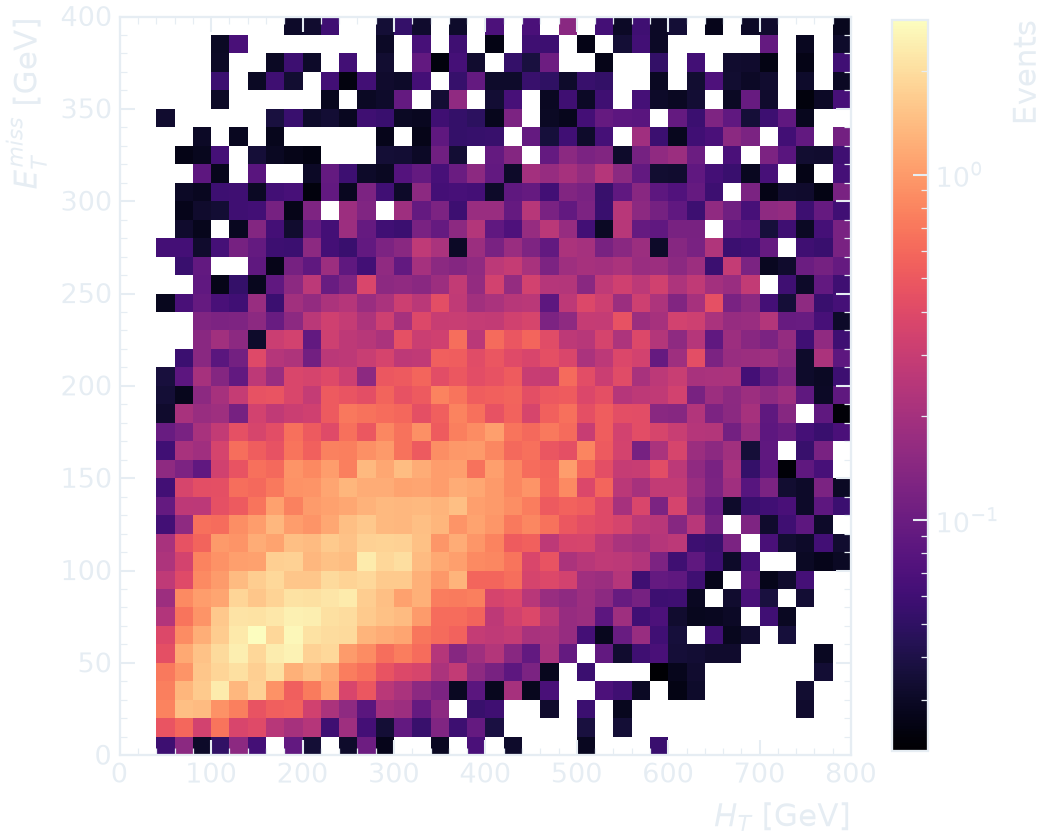
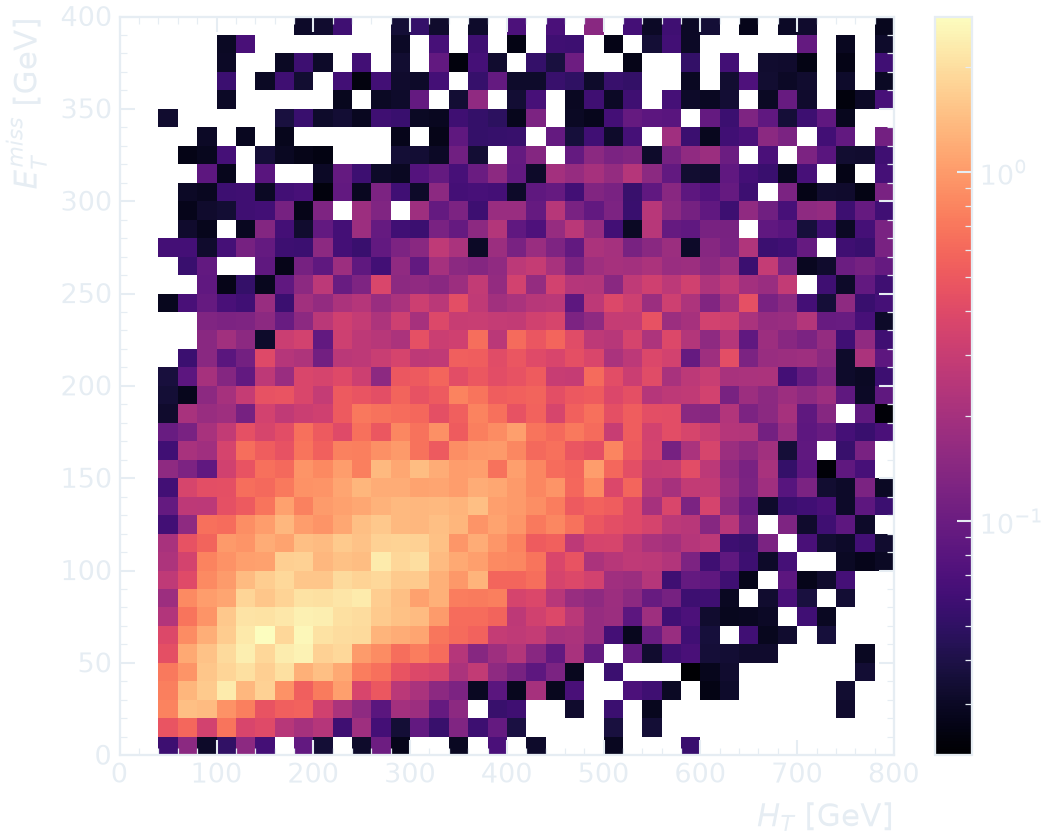
Hide the colour-bar title on the hist2d gallery example

diff --git a/examples/gallery/__init__.py b/examples/gallery/__init__.py
@@ -347,15 +347,16 @@ def arrays() -> rf.Plot:
 def hist2d(signal: rf.Sample, met: rf.Variable) -> rf.Plot:
     """``rf.plot2d`` fills a 2D histogram of one sample; both variables must have the same
     structure (both per-event here). ``logz`` and ``cmap`` control the colour scale."""
-    return rf.plot2d(
+    p = rf.plot2d(
         signal,
         rf.Variable("sum(Jet_pt)", bins=(40, 0, 800), label=r"$H_T$", unit="GeV"),
         met,
         selection="nJet >= 2",
         logz=True,
         cmap="magma",
-        zlabel="Events",
     )
+    p.fig.axes[-1].set_ylabel("")  # Omit the colour-bar title in this gallery layout.
+    return p
 
 
 @example("correlation", "A correlation matrix")
